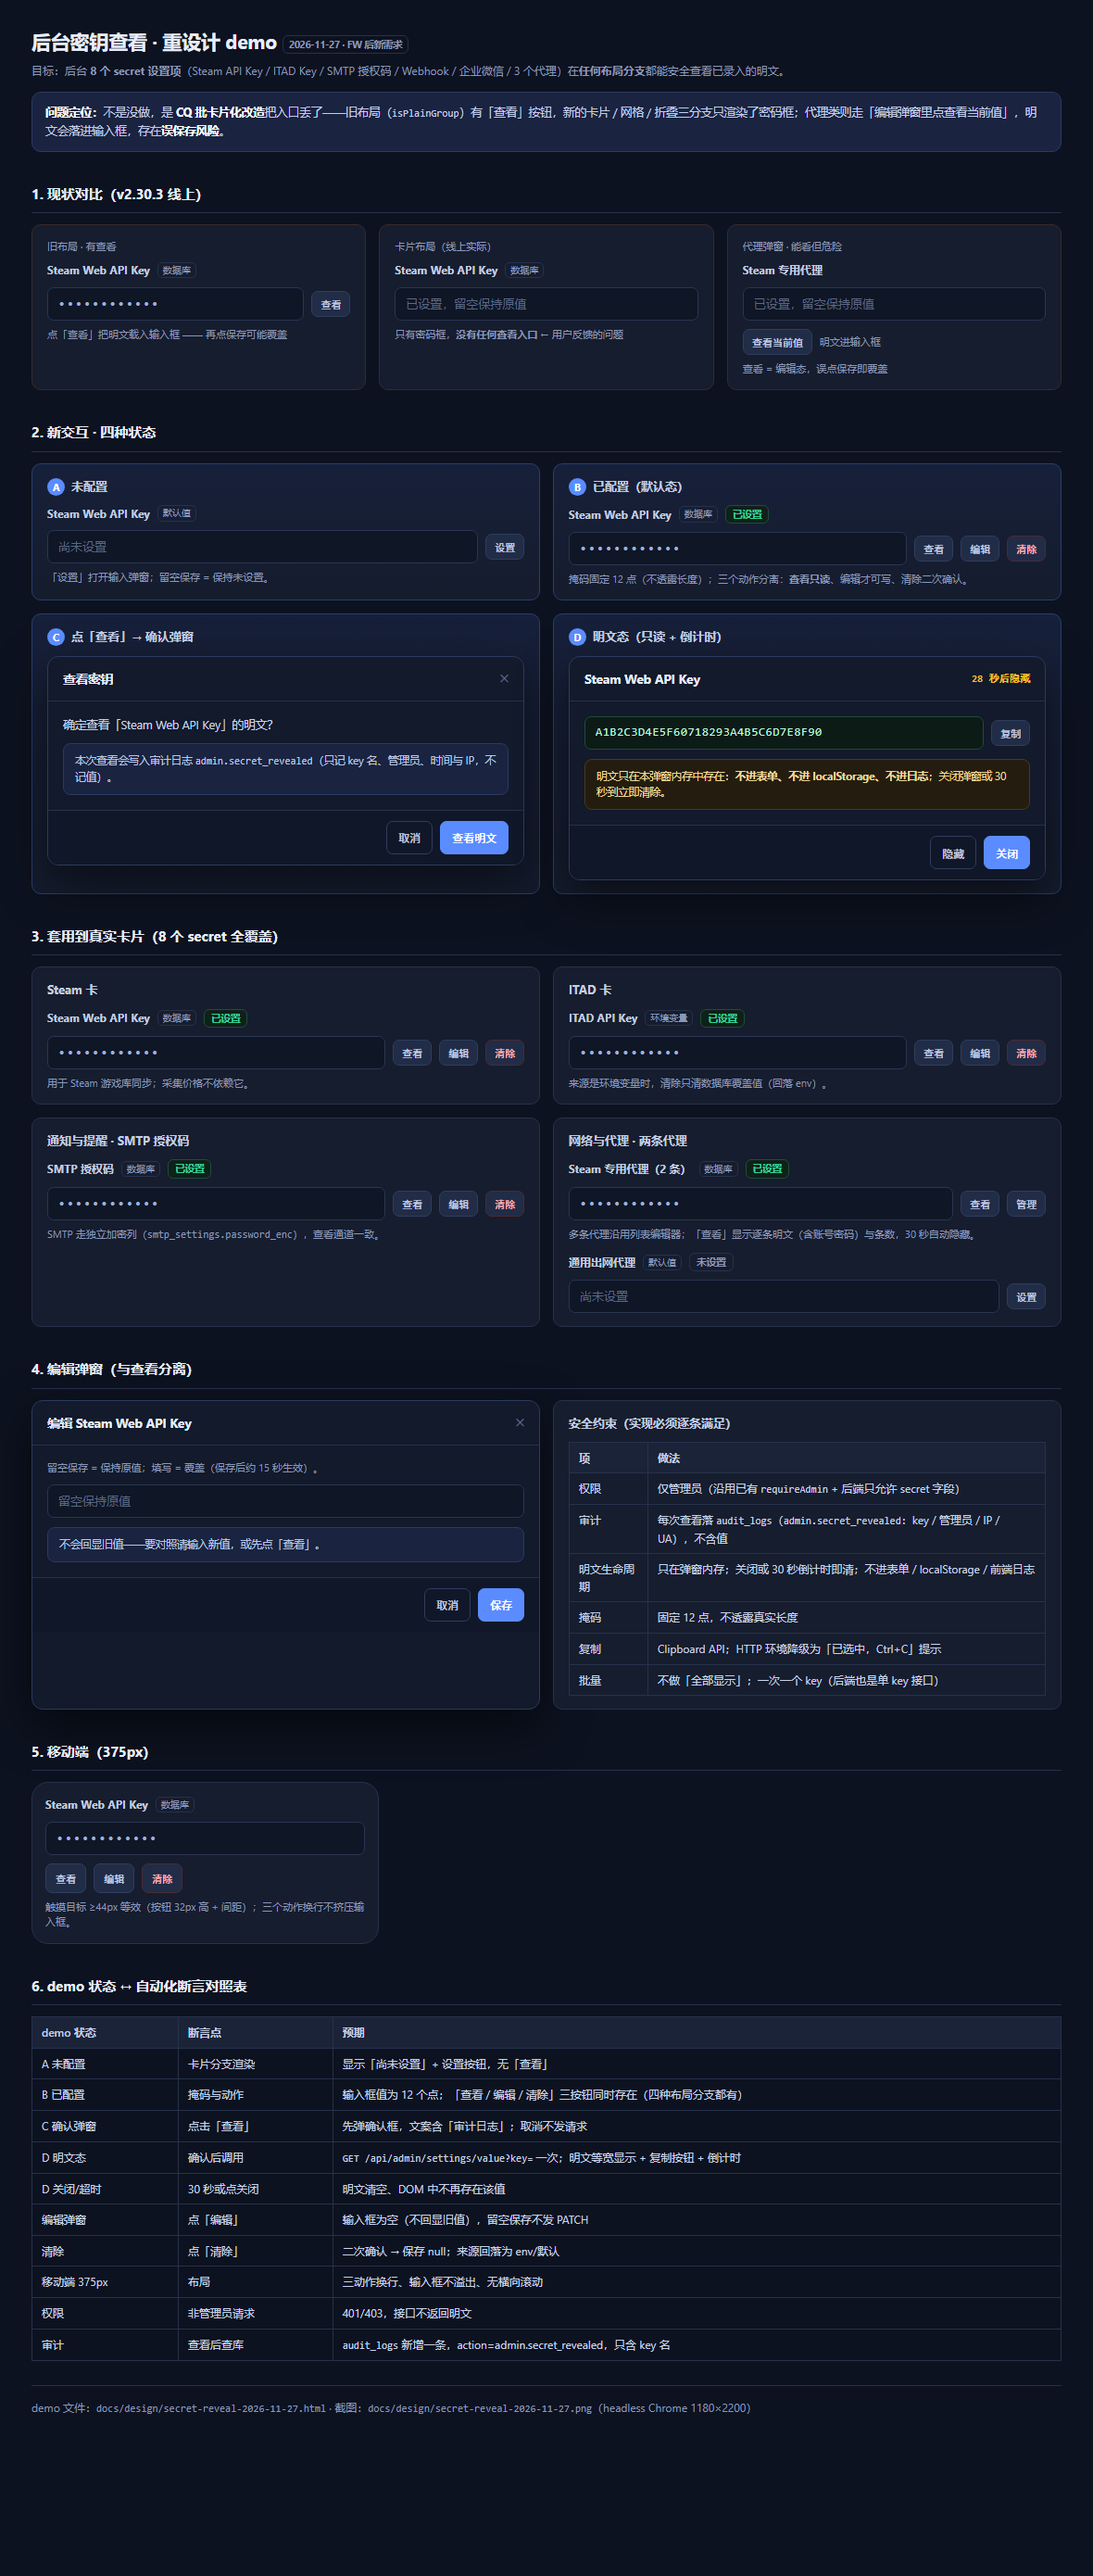
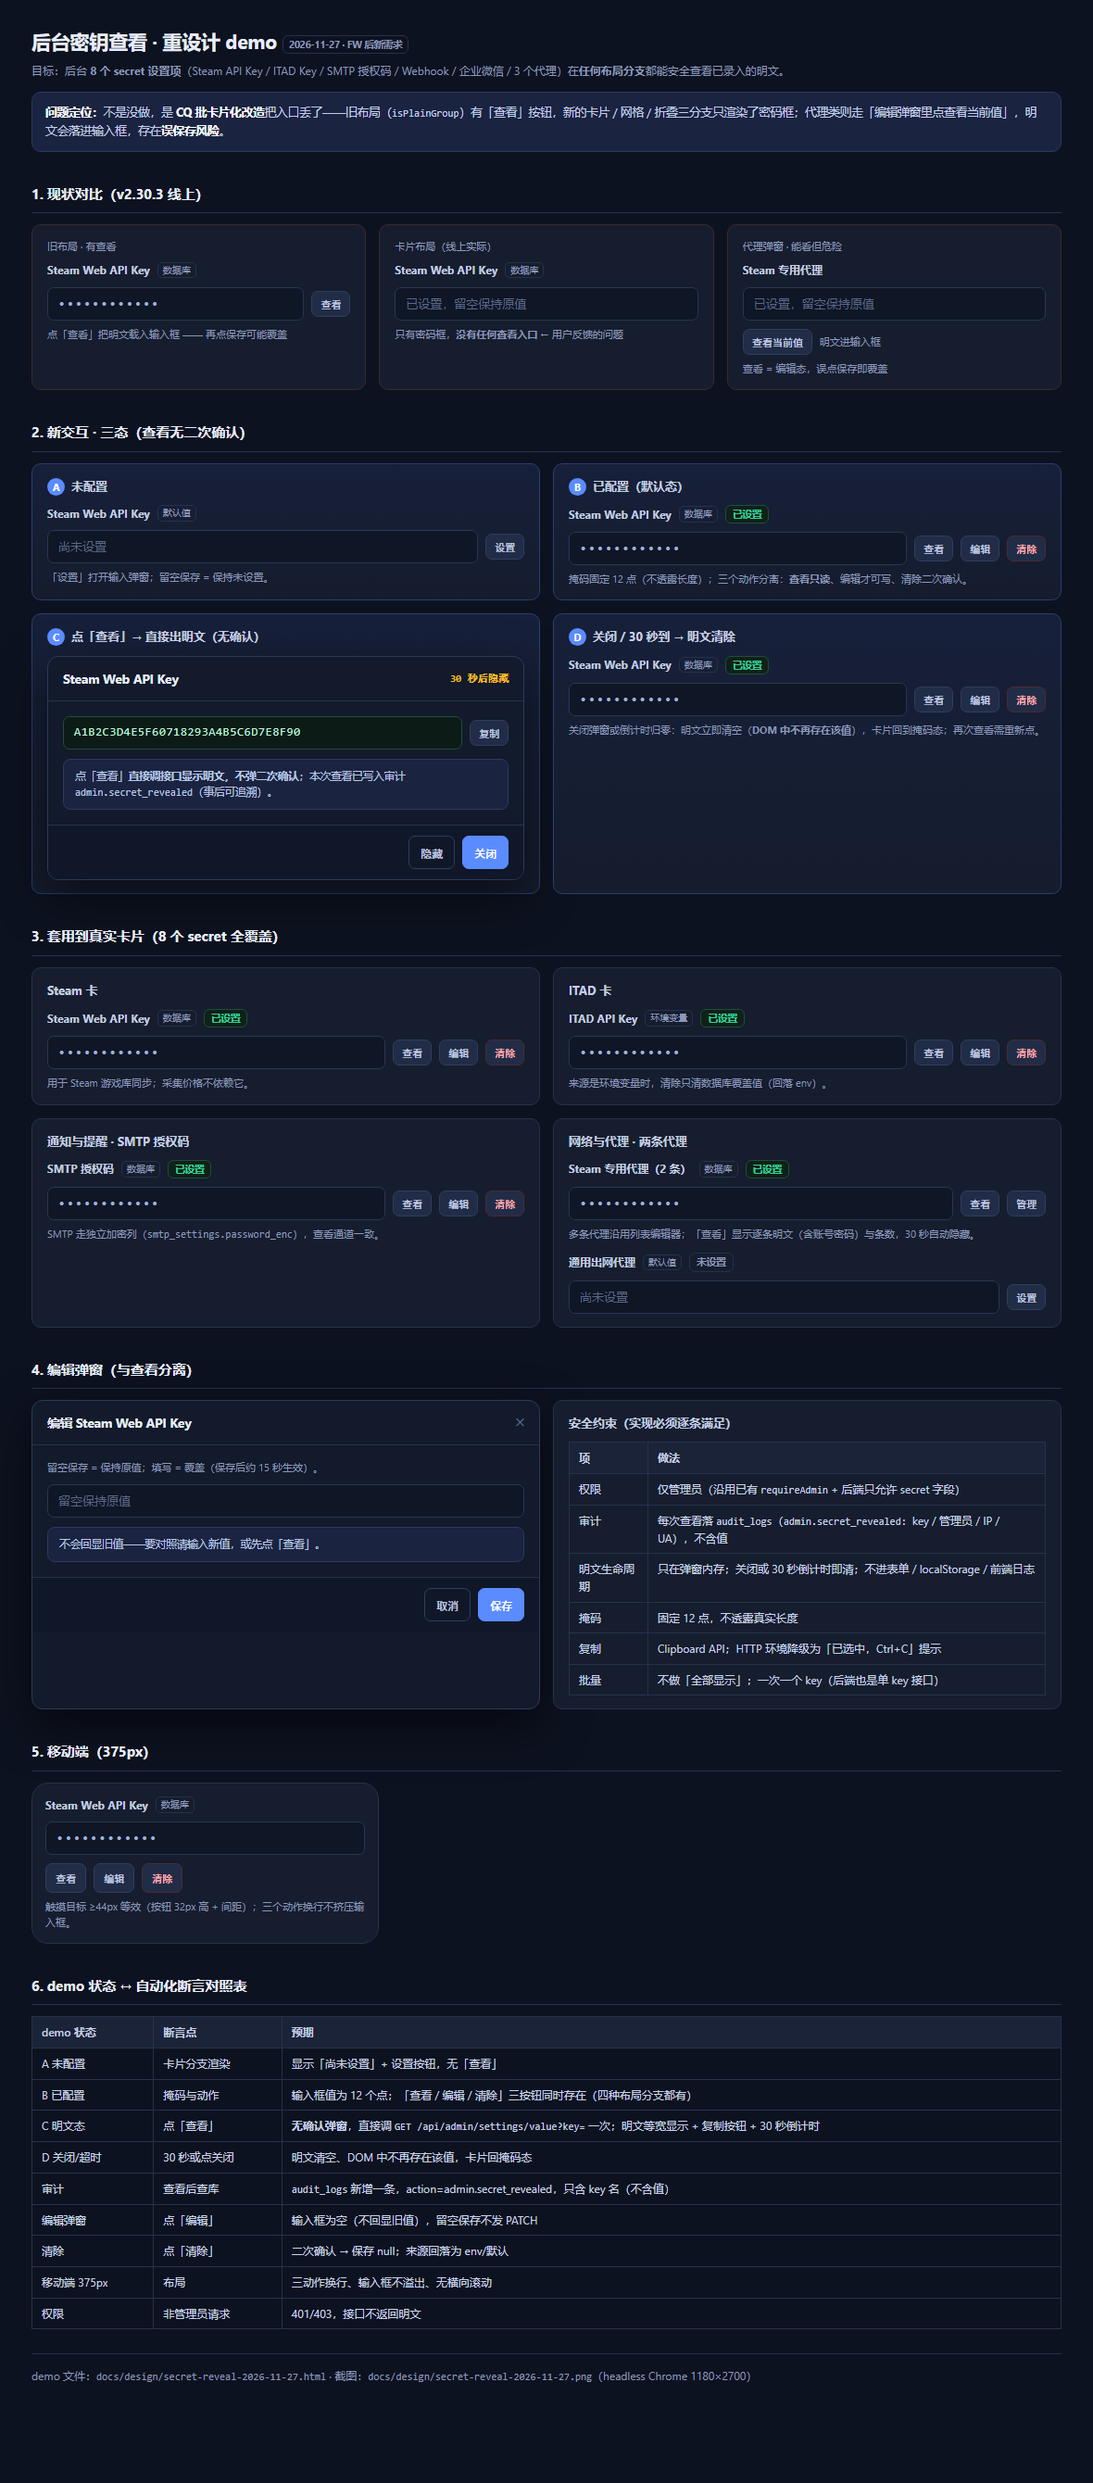
docs(requirements): FX 后台密钥查看统一——规格 SECRET-REVEAL.md + TODO 条目 + demo 更新（无确认弹窗 / 30 秒隐藏 / 审计落 audit_logs）

diff --git a/docs/design/secret-reveal-2026-11-27.html b/docs/design/secret-reveal-2026-11-27.html
@@ -96,7 +96,7 @@
   </div>
 </div>
 
-<h2>2. 新交互 · 四种状态</h2>
+<h2>2. 新交互 · 三态（查看无二次确认）</h2>
 <div class="grid2">
   <div class="card new">
     <h3><span class="num">A</span>未配置</h3>
@@ -118,30 +118,30 @@
   </div>
 
   <div class="card new">
-    <h3><span class="num">C</span>点「查看」→ 确认弹窗</h3>
+    <h3><span class="num">C</span>点「查看」→ 直接出明文（无确认）</h3>
     <div class="dialog">
-      <div class="dialog-head">查看密钥<span class="mono" style="color:#5b6785">✕</span></div>
-      <div class="dialog-body">
-        <p style="margin:0 0 10px;font-size:12.5px;color:#c8d3ea">确定查看「Steam Web API Key」的明文？</p>
-        <div class="note">本次查看会写入审计日志 <span class="mono">admin.secret_revealed</span>（只记 key 名、管理员、时间与 IP，不记值）。</div>
-      </div>
-      <div class="dialog-foot"><button class="btn ghost">取消</button><button class="btn primary">查看明文</button></div>
-    </div>
-  </div>
-
-  <div class="card new">
-    <h3><span class="num">D</span>明文态（只读 + 倒计时）</h3>
-    <div class="dialog">
-      <div class="dialog-head">Steam Web API Key <span class="countdown">28 秒后隐藏</span></div>
+      <div class="dialog-head">Steam Web API Key <span class="countdown">30 秒后隐藏</span></div>
       <div class="dialog-body">
         <div class="row" style="margin-top:0">
           <div class="input plain">A1B2C3D4E5F60718293A4B5C6D7E8F90</div>
           <button class="btn sm">复制</button>
         </div>
-        <div class="note warn">明文只在本弹窗内存中存在：<b>不进表单、不进 localStorage、不进日志</b>；关闭弹窗或 30 秒到立即清除。</div>
+        <div class="note">点「查看」<b>直接调接口显示明文，不弹二次确认</b>；本次查看已写入审计 <span class="mono">admin.secret_revealed</span>（事后可追溯）。</div>
       </div>
       <div class="dialog-foot"><button class="btn ghost">隐藏</button><button class="btn primary">关闭</button></div>
     </div>
+  </div>
+
+  <div class="card new">
+    <h3><span class="num">D</span>关闭 / 30 秒到 → 明文清除</h3>
+    <div class="field-label">Steam Web API Key <span class="src">数据库</span><span class="state ok">已设置</span></div>
+    <div class="row">
+      <div class="input mask">••••••••••••</div>
+      <button class="btn sm">查看</button>
+      <button class="btn sm">编辑</button>
+      <button class="btn sm danger">清除</button>
+    </div>
+    <p class="help">关闭弹窗或倒计时归零：明文立即清空（<b>DOM 中不再存在该值</b>），卡片回到掩码态；再次查看需重新点。</p>
   </div>
 </div>
 
@@ -215,17 +215,16 @@
   <tr><th>demo 状态</th><th>断言点</th><th>预期</th></tr>
   <tr><td>A 未配置</td><td>卡片分支渲染</td><td>显示「尚未设置」+ 设置按钮，无「查看」</td></tr>
   <tr><td>B 已配置</td><td>掩码与动作</td><td>输入框值为 12 个点；「查看 / 编辑 / 清除」三按钮同时存在（四种布局分支都有）</td></tr>
-  <tr><td>C 确认弹窗</td><td>点击「查看」</td><td>先弹确认框，文案含「审计日志」；取消不发请求</td></tr>
-  <tr><td>D 明文态</td><td>确认后调用</td><td><span class="mono">GET /api/admin/settings/value?key=</span> 一次；明文等宽显示 + 复制按钮 + 倒计时</td></tr>
-  <tr><td>D 关闭/超时</td><td>30 秒或点关闭</td><td>明文清空、DOM 中不再存在该值</td></tr>
+  <tr><td>C 明文态</td><td>点「查看」</td><td><b>无确认弹窗</b>，直接调 <span class="mono">GET /api/admin/settings/value?key=</span> 一次；明文等宽显示 + 复制按钮 + 30 秒倒计时</td></tr>
+  <tr><td>D 关闭/超时</td><td>30 秒或点关闭</td><td>明文清空、DOM 中不再存在该值，卡片回掩码态</td></tr>
+  <tr><td>审计</td><td>查看后查库</td><td><span class="mono">audit_logs</span> 新增一条，action=admin.secret_revealed，只含 key 名（不含值）</td></tr>
   <tr><td>编辑弹窗</td><td>点「编辑」</td><td>输入框为空（不回显旧值），留空保存不发 PATCH</td></tr>
   <tr><td>清除</td><td>点「清除」</td><td>二次确认 → 保存 null；来源回落为 env/默认</td></tr>
   <tr><td>移动端 375px</td><td>布局</td><td>三动作换行、输入框不溢出、无横向滚动</td></tr>
   <tr><td>权限</td><td>非管理员请求</td><td>401/403，接口不返回明文</td></tr>
-  <tr><td>审计</td><td>查看后查库</td><td><span class="mono">audit_logs</span> 新增一条，action=admin.secret_revealed，只含 key 名</td></tr>
 </table>
 
 <div class="sep"></div>
-<p class="sub" style="margin-top:14px">demo 文件：<span class="mono">docs/design/secret-reveal-2026-11-27.html</span> · 截图：<span class="mono">docs/design/secret-reveal-2026-11-27.png</span>（headless Chrome 1180×2200）</p>
+<p class="sub" style="margin-top:14px">demo 文件：<span class="mono">docs/design/secret-reveal-2026-11-27.html</span> · 截图：<span class="mono">docs/design/secret-reveal-2026-11-27.png</span>（headless Chrome 1180×2700）</p>
 </body>
 </html>

diff --git a/docs/SECRET-REVEAL.md b/docs/SECRET-REVEAL.md
@@ -1,0 +1,112 @@
+# 后台密钥查看统一（FX，待开发）
+
+> 状态：**需求与方案已确认（2026-11-27），待开发**。
+> 关联：[demo](design/secret-reveal-2026-11-27.html)（+ 同名 `.png`）、`src/settings-routes.js`（查看接口）、
+> `frontend/src/pages/AdminModules.vue`（设置页四种布局分支）、[PROXY-POOL.md](PROXY-POOL.md) §5（代理列表编辑器）、
+> [SETTINGS-IA.md](SETTINGS-IA.md)（CQ 批信息架构）
+
+## 0. 背景与现状（2026-11-27 代码核实）
+
+所有者反馈（截图）：「后台所有查看 key 的地方，都是有一个『已设置』，然后无法查看已经录入的值」。
+
+核对结论——**不是没做，是 CQ 批卡片化把入口弄丢了**，且各分支行为不一致：
+
+| 层 | 现状 | 证据 |
+|---|---|---|
+| 后端 | ✅ 已有 `GET /api/admin/settings/value?key=`：只允许 secret 字段（否则 400）、单 key、记 `settings.revealed` 日志 | `src/settings-routes.js:47-56` |
+| 旧布局分支 | ✅ 有「查看」按钮 + 「清除」checkbox；但「查看」把明文**载入密码输入框** | `AdminModules.vue:204`（`isPlainGroup` 分支）、`:767` `revealSecret` |
+| **卡片 / 网格 / 折叠分支**（线上实际） | ❌ 只渲染密码框 + placeholder「已设置，留空保持原值」，**无任何查看入口** | `AdminModules.vue:204`（`grid` / `foldBody` 分支） |
+| 代理类 3 项 | ⚠ 走「编辑弹窗 → 查看当前值」，明文进输入框，**误保存即覆盖** | `:222` `secretDialog` + `:772` `revealSecretInDialog` |
+
+受影响的 **8 个 secret 设置项**（`src/settings.js` 中 `type: 'secret'`）：
+
+1. `sources.steam.apiKey`（Steam Web API Key）
+2. `sources.itad.apiKey`（ITAD API Key）
+3. `alerts.smtp.pass`（SMTP 授权码，独立加密列 `smtp_settings.password_enc`）
+4. `alerts.webhookUrl`（通用 Webhook）
+5. `alerts.wecomUrl`（企业微信群机器人）
+6. `network.steamProxy`（Steam 专用代理，多条）
+7. `network.httpsProxy`（通用出网代理）
+8. `network.appSyncProxy`（App 同步专用代理）
+
+## 1. 已确认的决策（所有者 2026-11-27）
+
+| # | 决策 |
+|---|---|
+| 1 | 点「查看」**不要二次确认**，直接显示明文（Demo 区块 C） |
+| 2 | 明文 **30 秒自动隐藏**；手动关闭立即清除（Demo 区块 D） |
+| 3 | 审计写 **`audit_logs`**（`admin.secret_revealed`，只记 key 名，不记值） |
+| 4 | **查看只读、编辑才写、清除二次确认**——三动作彻底分离（不再「查看即载入输入框」） |
+| 5 | 覆盖全部 **8 个 secret**，且在**四种布局分支**（`isPlainGroup` / `grid` / `foldBody` / 代理行）行为一致 |
+| 6 | 抽公共组件，**一处实现四处分发**（根治「换个布局就丢入口」） |
+| 7 | 不做「全部显示」/批量；一次一个 key（后端本来就是单 key 接口） |
+| 8 | 掩码固定 **12 点**，不透露真实长度 |
+
+## 2. 数据模型
+
+- **不改表结构**。审计复用 `audit_logs`（沿用现有 action / actor / detail / ip / ua 字段）；
+- 明文不进库、不进 `localStorage`、不进前端日志。
+
+## 3. 服务端
+
+- 既有接口保持契约：`GET /api/admin/settings/value?key=` → `{ key, value, source }`；
+  仅 `field.secret === true` 可通过（否则 400「只能查看敏感字段」）；单 key、不批量；`requireAdmin` 不变；
+- **新增**：在现有 `logger.info('settings.revealed')` 之外，写一条 `audit_logs`：
+  - `action`: `admin.secret_revealed`
+  - `detail`: `{ key }`（**不含值**）
+  - `actor` / `ip` / `ua` 沿用现有审计写入函数；
+- 日志事件保持 `settings.revealed`（应用日志，排障用），审计供后台「审计日志」页查询。
+
+## 4. 前端 / 后台
+
+**新增组件** `frontend/src/components/SecretField.vue`：
+
+| 状态 | 渲染 | 行为 |
+|---|---|---|
+| 未配置 | 「尚未设置」+ 「设置」按钮 | 打开编辑弹窗 |
+| 已配置 | 掩码 12 点（`••••••••••••`）+ 「查看」「编辑」「清除」 | 见下 |
+| 查看中 | 弹窗：等宽明文 + 「复制」+ 倒计时「N 秒后隐藏」 | 关闭或倒计时归零 → 清空并关弹窗 |
+| 编辑中 | 弹窗：空输入框（placeholder「已设置，留空保持原值」） | 留空保存不改值；填写则覆盖；保存后约 15 秒生效 |
+
+- 点「查看」→ **直接** `GET /api/admin/settings/value?key=<key>`，**不弹确认**；
+- 「复制」用 `navigator.clipboard`；非安全上下文降级为「已选中，请 Ctrl+C」提示；
+- 「清除」走 `ElMessageBox.confirm` → 保存 `null`（来源回落 env/默认）；
+- **四处替换**：`isPlainGroup` 分支、`grid` 分支、`foldBody` 分支、`network.steamProxy` 代理行；
+- **代理（多条）**：查看弹窗逐条列出明文（含账号密码的 URL），并显示条数；沿用列表编辑器管理（[PROXY-POOL.md](PROXY-POOL.md) §5）；
+- **移动端**（≤560px）：三动作换行、按钮触摸目标 ≥44px 等效、输入框不溢出；
+- **demo**：[design/secret-reveal-2026-11-27.html](design/secret-reveal-2026-11-27.html)，
+  验收必须「与 demo 一致」；demo 内嵌「状态 ↔ 自动化断言」对照表。
+
+## 5. 设置与配置
+
+- 无新增设置项、无迁移、无默认值变化。
+
+## 6. 安全
+
+| 项 | 要求 |
+|---|---|
+| 权限 | 仅管理员（沿用 `requireAdmin` + 后端只允许 secret 字段） |
+| 审计 | 每次查看落 `audit_logs`（`admin.secret_revealed`，只含 key 名） |
+| 明文生命周期 | 只在弹窗内存；关闭 / 30 秒即清；**不进表单**（避免误保存）、不进 localStorage、不进日志 |
+| 掩码 | 固定 12 点，不透露长度 |
+| 批量 | 不做「全部显示」；一次一个 key |
+| 复制 | Clipboard API；HTTP 环境降级提示手动复制 |
+| 不新增 | 不加「查看需重输密码」这类二次认证（所有者 2026-11-27 明确：无确认步骤），靠审计追溯 |
+
+## 7. 验收（7 条）
+
+1. **8 个 secret 项在四种布局分支**都出现「查看 / 编辑 / 清除」三动作（模板静态锁 + 至少两处 DOM 断言）；
+2. 点「查看」**无确认弹窗**，直接调 `GET /api/admin/settings/value?key=` 一次；明文等宽显示 + 复制按钮 + 倒计时；
+3. 明文弹窗 30 秒倒计时后自动关闭，**DOM 中不再存在该值**；手动关闭同样清空（断言弹窗关闭后页面文本不含明文）；
+4. 查看后 `audit_logs` 新增一条 `admin.secret_revealed`，`detail` 只含 key 名、**不含值**；后台「审计日志」可查到；
+5. 非管理员访问该接口 401/403；非 secret key 返回 400「只能查看敏感字段」（回归）；
+6. 代理（多条）查看弹窗逐条显示明文与条数；编辑留空保存不改值；清除二次确认后回落 env/默认；
+7. 移动端 375px 三动作换行且无横向溢出；`npm test`（分段）+ `npm run frontend:build` + `npm run scan` 全绿。
+
+## 8. 实施顺序
+
+**单批 FX-1**：后端补审计 → `SecretField.vue` → 四处替换 → 测试与 demo 对照。
+
+## 9. 待确认
+
+无（4 项已于 2026-11-27 确认：不要确认弹窗 / 30 秒 / 审计写 `audit_logs` / 按此立项）。

diff --git a/docs/TODO.md b/docs/TODO.md
@@ -27,7 +27,7 @@
 |---|---|---|
 | 🐞 缺陷 | 4 | EO、ER、EU、EX |
 | ✨ 功能 | 0 | — |
-| ⚙ 调整 | 10 | EP / EV / EW / EY / FB / FD / FF / FG / FH / FW |
+| ⚙ 调整 | 11 | EP / EV / EW / EY / FB / FD / FF / FG / FH / FW / FX |
 | 🧹 技术债 | 2 | EN、FC |
 | 🧪 测试基建 | 0 | — |
 | 📝 文档流程 | 0 | — |
@@ -216,3 +216,22 @@
 - **需求**：后台统计卡片显示 adult_flag 总数 / mature_flag 总数 / 回填覆盖 / 最近回填时间——**只显示数字**，
   无成人内容列表（配合 FG）。
 - **验收**：见规格 §2（数字与 API 一致；无内容列表；测试全绿）。
+
+## FX. 待开发（⚙ 调整）：后台密钥查看统一——8 个 secret 覆盖四种布局，查看/编辑/清除三动作
+
+**状态：** 待开发
+**类型：** ⚙ 调整（后台设置页：现有功能缺口补齐 + 交互统一）
+**优先级：** P2 —— 线上卡片布局丢失「查看」入口，管理员无法核对已录入的 Key / 授权码 / 代理
+**依赖：** 无
+**解锁：** 无
+**规格**：[SECRET-REVEAL.md](SECRET-REVEAL.md)
+**demo**：[design/secret-reveal-2026-11-27.html](design/secret-reveal-2026-11-27.html)（+ 同名 `.png`，1180×2700）
+
+- **现状（2026-11-27 代码核实）**：后端 `GET /api/admin/settings/value?key=` 已有（只允许 secret、单 key、
+  记 `settings.revealed` 日志，`src/settings-routes.js:47-56`）；但前端旧布局分支有「查看」按钮
+  （`AdminModules.vue:204` 的 `isPlainGroup`），**CQ 批卡片化后的 `grid` / `foldBody` 分支只渲染密码框**；
+  代理类走「编辑弹窗里查看当前值」，明文进输入框有误保存风险。
+- **范围**：8 个 secret（Steam API Key / ITAD Key / SMTP 授权码 / 通用 Webhook / 企业微信 / 3 个代理）在四种
+  布局分支统一「查看 / 编辑 / 清除」三动作；抽 `SecretField.vue` 组件；查看**无二次确认**直接显示、
+  **30 秒自动隐藏**、审计写 `audit_logs`（`admin.secret_revealed`，只记 key 名不含值）。
+- **验收**：见规格 §7（7 条）+ 与 demo 一致。

diff --git a/docs/REQUIREMENTS-INDEX.md b/docs/REQUIREMENTS-INDEX.md
@@ -181,6 +181,7 @@
 | **ER** | B4/cli 拆分遗留缺陷修复（backfill q is not a function / prune 42P01 / #18 syncPrices 断引用） | 本条目 + [B4-QUEUE.md](B4-QUEUE.md) 备注 | 已发布 v2.28.10（2026-11-24） | ✅ 本轮已给 |
 | **ES** | 生产 pg_trgm 索引命中复核（EXPLAIN，部署侧执行） | [ROADMAP.md](ROADMAP.md)「体验与性能优化」段尾注 | 待排查 | ✅ 本轮已给 |
 | **FW** | ⚙ 调整：慢慢同步——heat 100 款/10 分钟 + 过期阈值 30 天；steam-discovery 10 页/30 分钟 + fallback 10/轮 + 页游标（`app_meta`）；403/429 都切代理（按代理冷却 + 每请求 3 条 + 速率闸门 30 次/分钟，修订 PROXY-POOL 决策 1）；403 软退出 76 + 预警节流；拆 FW-1 / FW-2 / FW-3 | [SLOW-SYNC.md](SLOW-SYNC.md)、[PROXY-POOL.md](PROXY-POOL.md) §12 | 已发布 v2.31.0（2026-11-27；FW-1 `7c21b29` / FW-2 `09c7036` / FW-3 `cde8ea9`+`ee85ffb`；QA-FW-1/2/3 全放行） | ✅ 本轮已给 |
+| **FX** | ⚙ 调整：后台密钥查看统一——8 个 secret 在四种布局分支统一「查看/编辑/清除」；查看无二次确认、30 秒自动隐藏、审计写 `audit_logs`（`admin.secret_revealed`）；抽 `SecretField.vue` | [SECRET-REVEAL.md](SECRET-REVEAL.md)、demo `design/secret-reveal-2026-11-27.html` | 待开发（2026-11-27 确认，含 demo） | ✅ 本轮已给 |
 
 ## 本会话（2026-11-06）讨论过、但**不属于项目文档**的内容
 
